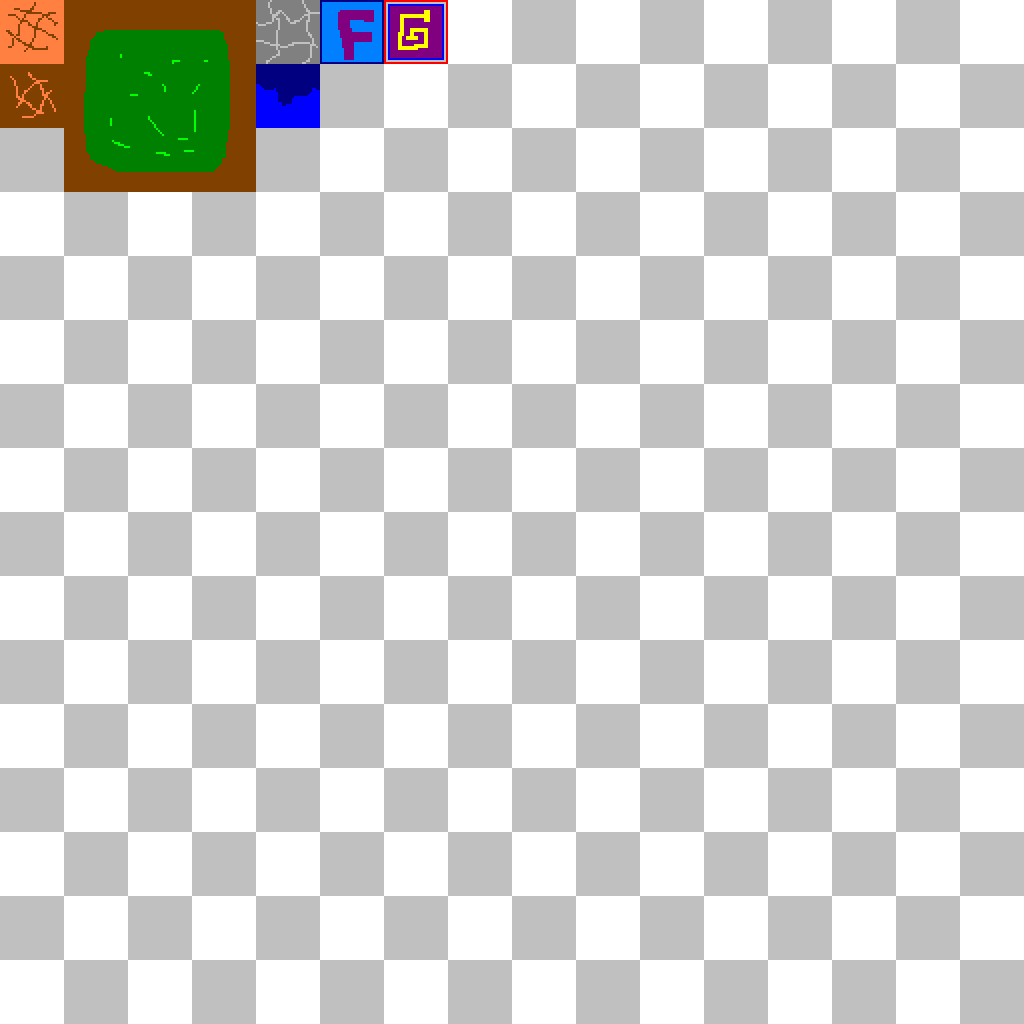
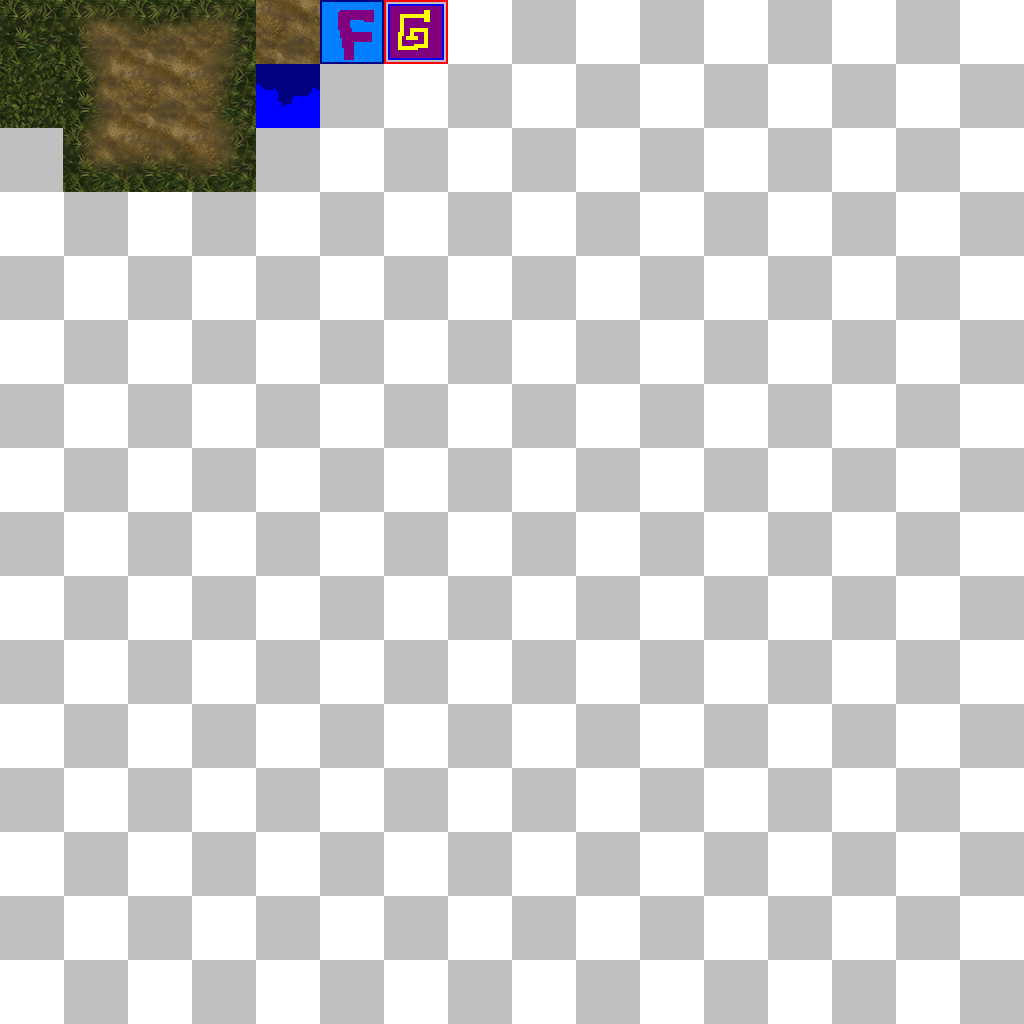
Update: abandoned tile heights for simple heightmap - new testmap

Changed region(s): [[0.0, 0.0, 0.3125, 0.1875]]

diff --git a/invoke/invokeGame.cpp b/invoke/invokeGame.cpp
@@ -12,6 +12,8 @@
 
 #include "xPartTest.h"
 
+#include "xBuildTest.h"
+
 
 
 
@@ -82,11 +84,7 @@ invokeGame::init(void)
  // myRand.setSeed(1); //important for gameplay
 
 
-//load resources first (only do this once per game)
-  myData.addMdx("data/tree.mdx3", "tree");
-  myData.addSkin("data/treeskin.png", "treeskin",true,true);
 
- 
   myData.addSkin("data/knight_skin.png", "knight_skin",true,true);
   
   myData.addSprite("data/mysmoke.xms","data/mysmoke.png");
@@ -129,144 +127,82 @@ invokeGame::init(void)
 
 //Create a tilemap and some units for testing
 
-  //testing
-  int i;
-  xActor * a;
-  for (i = 0; i < 16; i++)
-  {
-    a = new xUnit();
-    a->pos.set(getRand()*1024,0, getRand()*1024);
-      addActor(a);
-  }//nexti
 
 
-  xTile * tileSet;
-  xTile * ta;
+
+
   xTmxLayer * layer;
 
 
   xTmx tmxLoader;
-  tmxLoader.loadFile("data/testmap.tmx");
+  tmxLoader.loadFile("data/testmap2.tmx");
 
-  layer = tmxLoader.getLayer("terra");
-  myMap.initFromLayer(layer->vecGrid, layer->mwidth, layer->mheight);
-
-    //rem: a 512x512 map is half million tris
-  // myMap.initEmpty(128, 128);
-
-   //myMap.initEmpty(32, 32);
-    
+//todo -- the tileset atlas will need a larger edge around the tiles
+  tileSkin.loadTex("data/out_set.png", true, false, false);
+  myMap.debLoadUv("data/out_set.xms");
 
 
-/*
-  tileSet = myMap.tileSet;
 
-  ta = &(tileSet[0]);
-  ta->height = 0;
-
-  ta = &(tileSet[1]);
-  ta->height = 0;
-  ta->spec = 303;
+  layer = tmxLoader.getLayer("tex");
+  myMap.initEmpty(layer->mwidth, layer->mheight);
  
-  ta = &(tileSet[2]);
-  ta->height = 1;
-
-  ta = &(tileSet[3]);
-  ta->height = 2;
-
-  ta = &(tileSet[4]);
-  ta->height = 3;
-*/
-
-  //set tile heights etc (todo -- load from xml?)
-  tileSet = myMap.tileSet;
-  ta = &(tileSet[0]);  ta->height = 0;  
-
-  ta = &(tileSet[8]);  ta->height = 1;  
-  ta = &(tileSet[8+1]);  ta->height = 2;  
-  ta = &(tileSet[8+2]);  ta->height = 3;  
-  ta = &(tileSet[8+3]);  ta->height = 4;  
-  ta = &(tileSet[8+4]);  ta->height = 5;  
-  ta = &(tileSet[8+5]);  ta->height = 6;  
-  ta = &(tileSet[8+6]);  ta->height = 7;  
-  ta = &(tileSet[8+7]);  ta->height = 8;  
-
-  ta = &(tileSet[8+8]);  ta->height = 1;     ta->spec = 303;
-  ta = &(tileSet[8+8+1]);  ta->height = 2;   ta->spec = 303;
-  ta = &(tileSet[8+8+2]);  ta->height = 3;   ta->spec = 303;
-  ta = &(tileSet[8+8+3]);  ta->height = 4;   ta->spec = 303;
-  ta = &(tileSet[8+8+4]);  ta->height = 5;   ta->spec = 303;
-  ta = &(tileSet[8+8+5]);  ta->height = 6;   ta->spec = 303;
-  ta = &(tileSet[8+8+6]);  ta->height = 7;   ta->spec = 303;
-  ta = &(tileSet[8+8+7]);  ta->height = 8;   ta->spec = 303;
 
 
-  
-  /*
-  myMap.setRect(2,2, 10, 10, 4);
-  myMap.setRect(1,1, 3, 3, 2);
-  myMap.setRect(3,1, 3, 4, 3);
-  myMap.setRect(4,4, 3, 3, 1);
-  myMap.setRect(14,14, 9, 9, 4);
-*/
+
 
   myMap.genHeightRect();
-  //  myMap.debApplyHeightMap();
-
-//todo -- maybe the extra wall rendering is not needed
-//and instead it should be based on the heightmap?
-
   xImage hmap;
   hmap.loadImage("data/test_heightmap.png");
     myMap.applyHeightMap(&hmap, 4.0f);
   hmap.clear();
 
 
-  //  xMdx3 temp;
-      //ok so-- the thing is i chosen to use shorts for storing the number of faces possible in an mdx
-      //and now it bite me in the ass as you cant have more than 16384 faces in a mesh
-      //so you cant just init the collision mesh from taking the entire map
-     // myMap.makeMesh(&temp, 0,0, myMap.mwidth, myMap.mheight);
-      //myCol.initFromMesh(&temp);
-     // temp.clear();
-
-
-//todo -- the tileset atlas will need a larger edge around the tiles
-  tileSkin.loadTex("data/out_set.png", true, false, false);
-  //tileSkin.loadTex("data/out_set.png", false, false, false);
-
-  //tileSkin.setTexEnv_Blend();
-  //tileSkin.setTexEnv_Decal();
-  myMap.debLoadUv("data/out_set.xms");
-
-  layer = tmxLoader.getLayer("tex");
-  layer->addNum(-65);
   myMap.setSkinFromLayer(layer->vecGrid, layer->mwidth, layer->mheight);
-
-  
-
-
-
+   
+ 
     myCol.clear();
     myCol.addTileMap(&myMap);
-/*
-    xMdx3 temp;
-    myMap.makeMesh(&temp, 0,0, 32, 32);
-    myCol.initFromMesh(&temp);
-    temp.clear();
-*/
+
     myDraw.initRect(&myMap);
 
 
     debmesh.initBox(16);
-    //debmesh.initPlane(16);
-
-
-
+ 
 
 
   waterSkin.loadTex("data/watertex.png");
   waterDeb.initPlane(32768, 0, 0, 32,32);
+
+
+
+
+
+//preload all unit models and textures
+//todo -- this part will need to use an xml or something
+
+  xMdx3 * mesh;
+
+  mesh = myData.addMdx("data/build/kunyho.mdx3", "kunyho");  mesh->makeVbo();
+  myData.addSkin("data/build/kunyho_textura_walpha.png", "kunyho", true, true);
+
+
+  mesh = myData.addMdx("data/tree.mdx3", "tree"); mesh->makeVbo();
+  myData.addSkin("data/treeskin.png", "treeskin",true,true);
+
+ 
+
+
+
+
+
+
+
+
+
+
+
+
+
 
 
 
@@ -278,6 +214,20 @@ invokeGame::init(void)
   wwidth = myMap.mwidth * myMap.cw;
   wheight = myMap.mheight * myMap.ch;
 
+
+
+  //testing
+  int i;
+  xActor * a;
+  for (i = 0; i < 16; i++)
+  {
+    a = new xUnit();
+    a->pos.set(getRand()*1024,0, getRand()*1024);
+      addActor(a);
+  }//nexti
+
+
+
 //todo -- frustum cull units (and trees)
 
   for (i = 0; i < 256; i++)
@@ -288,6 +238,17 @@ invokeGame::init(void)
 
     //todo -- align trees to grid    
   }//nexti
+
+/*
+  for (i = 0; i < 32; i++)
+  {
+    a = new xBuildTest(); 
+     a->pos.set(getRand()*wwidth, 0, getRand()*wheight);
+    addActor(a);
+
+    //todo -- align trees to grid    
+  }//nexti
+*/
 
 
   a = new xPartTest();

diff --git a/gamex/xTileMap.cpp b/gamex/xTileMap.cpp
@@ -170,6 +170,8 @@ xTileMap::initEmpty(int mw, int mh)
   vecZtype = new int[num];
   memset(vecZtype, 0, num * 4);
 
+  int i;
+  for (i =0;i < num; i++) { vecZtype[i] = 1;}
 
 }//initempty
 
@@ -202,24 +204,8 @@ xTileMap::initFromLayer(int * vec, int mw, int mh)
     //note -- zone type is flags -- 0 is not walkable under any circumstance
     //so we cant use memset as it sets it per byte, it would set it to 0x01010101 instead of 0x00000001
     int i;
-      for (i =0;i < num; i++) { vecZtype[i] = 1;}
+    for (i =0;i < num; i++) { vecZtype[i] = 1;}
 
-
-
-/*
-     int t, i, k, yt;
-        for (i = 0; i < mheight; i++)
-        {
-          yt = i * mwidth;
-          for (k = 0; k < mwidth; k++)
-          {
-            t = vecGrid[k+yt];
-            printf("%d", t);
-          }//nextk
-          printf("\n");
-        }//nexti
-          printf("\n");
-*/
 }//initlayer
 
 
@@ -424,7 +410,7 @@ xTileMap::setSkinFromLayer(int * vec, int mw, int mh)
 
   for (i = 0; i < num; i++)
   {
-    vecRect[i].skin = vec[i]; 
+    vecRect[i].skin = vec[i] - 1; 
   }
 
 }//setskin
@@ -567,6 +553,11 @@ xTileMap::debLoadUv(std::string fname)
     float u0, v0;
     float u1, v1;
 
+    //add half pixel to the uv (doesnt help much)
+    float ax, ay;
+    ax = (1.0f/picw)*0.5f;
+    ay = (1.0f/pich)*0.5f;
+
 
      for (img = tex.child("image"); img; img = img.next_sibling("image")) 
      {
@@ -580,6 +571,9 @@ xTileMap::debLoadUv(std::string fname)
         u1 = u0 + img.attribute("width").as_float() / picw;
         v1 = v0 + img.attribute("height").as_float() / pich;
 
+
+        u0+=ax; v0+=ay;
+        u1-=ax; v1-=ay;
 
         a->uv[0].x = u0;
         a->uv[0].y = v0;

diff --git a/gamex/xTexture.cpp b/gamex/xTexture.cpp
@@ -172,7 +172,7 @@ xTexture::makeTex(xImage  * img, bool mip, bool clamp)
    //trilinear
      
         if (mip)
-        {
+        { 
           glTexParameterf( GL_TEXTURE_2D, GL_TEXTURE_MIN_FILTER, GL_LINEAR_MIPMAP_LINEAR );
           glTexParameterf( GL_TEXTURE_2D, GL_TEXTURE_MAG_FILTER, GL_LINEAR );
         }
@@ -201,9 +201,13 @@ xTexture::makeTex(xImage  * img, bool mip, bool clamp)
         else
         { glTexImage2D(GL_TEXTURE_2D, 0, GL_RGBA, img->mw, img->mh, 0, GL_RGBA, GL_UNSIGNED_INT_8_8_8_8, img->dat);  }
 
-   //default
-        glTexEnvf(GL_TEXTURE_ENV, GL_TEXTURE_ENV_MODE, GL_REPLACE); 
+       //default blending
+          glTexEnvf(GL_TEXTURE_ENV, GL_TEXTURE_ENV_MODE, GL_REPLACE); 
 
+
+        //todo -- set mip map max level
+
+        //glTexParameteri(GL_TEXTURE_2D, GL_TEXTURE_MAX_LEVEL, 3)
 
     }//maketex
     
@@ -251,6 +255,8 @@ xTexture::buildMipMap(int w, int h, unsigned int * dat)
       }//wend
       
       delete [] buf;
+
+;
 }//buildmipmap
 
 

diff --git a/invoke/xBuildTest.cpp b/invoke/xBuildTest.cpp
@@ -23,11 +23,15 @@ xBuildTest::init(void)
 
 //todo -- get file from game
 
-  mesh.loadFile("data/knight_mesh.mdx3");
-  mesh.makeVbo();
+  //mesh.loadFile("data/build/kunyho.mdx3");
+  //mesh.makeVbo();
 
+  mesh = game->getMdx("kunyho");
+  skin = game->getSkin("kunyho_textura_walpha");
 
   spectype = 100;
+
+   pos.y = game->getHeight(pos.x, pos.z);
 
 }//init
 
@@ -48,8 +52,8 @@ xBuildTest::render2(xRender * r)
     e = r->addFrame(0);
       e->pos = pos;
       e->blend = 0;
-      e->fmesh = &mesh;
-      e->vmesh = &mesh;
+      e->fmesh = mesh;
+      e->vmesh = mesh;
       e->alpha = 1;
       e->color = 1;
       e->twoSide = 0;
@@ -57,3 +61,6 @@ xBuildTest::render2(xRender * r)
 
 
 }//render2
+
+
+

diff --git a/invoke/xBuildTest.h b/invoke/xBuildTest.h
@@ -7,7 +7,7 @@
 class xBuildTest : public xActor
 {
 public:
-  xMdx3 mesh;
+  xMdx3 * mesh;
   unsigned int skin;
 
   float yaw;
